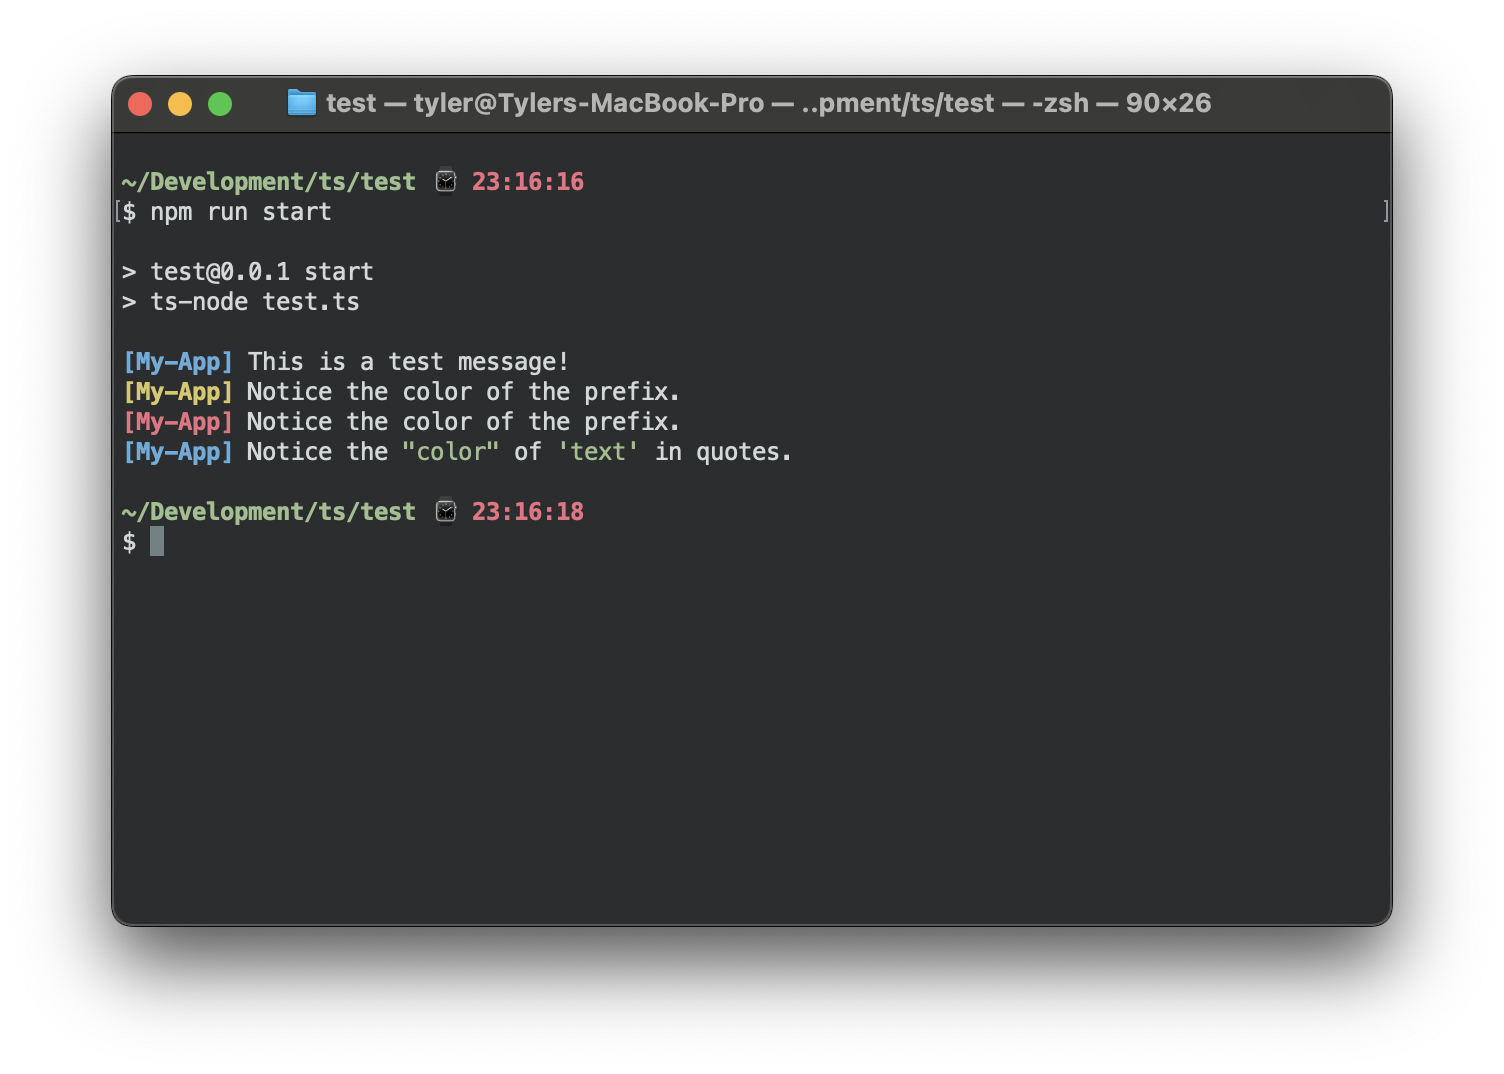
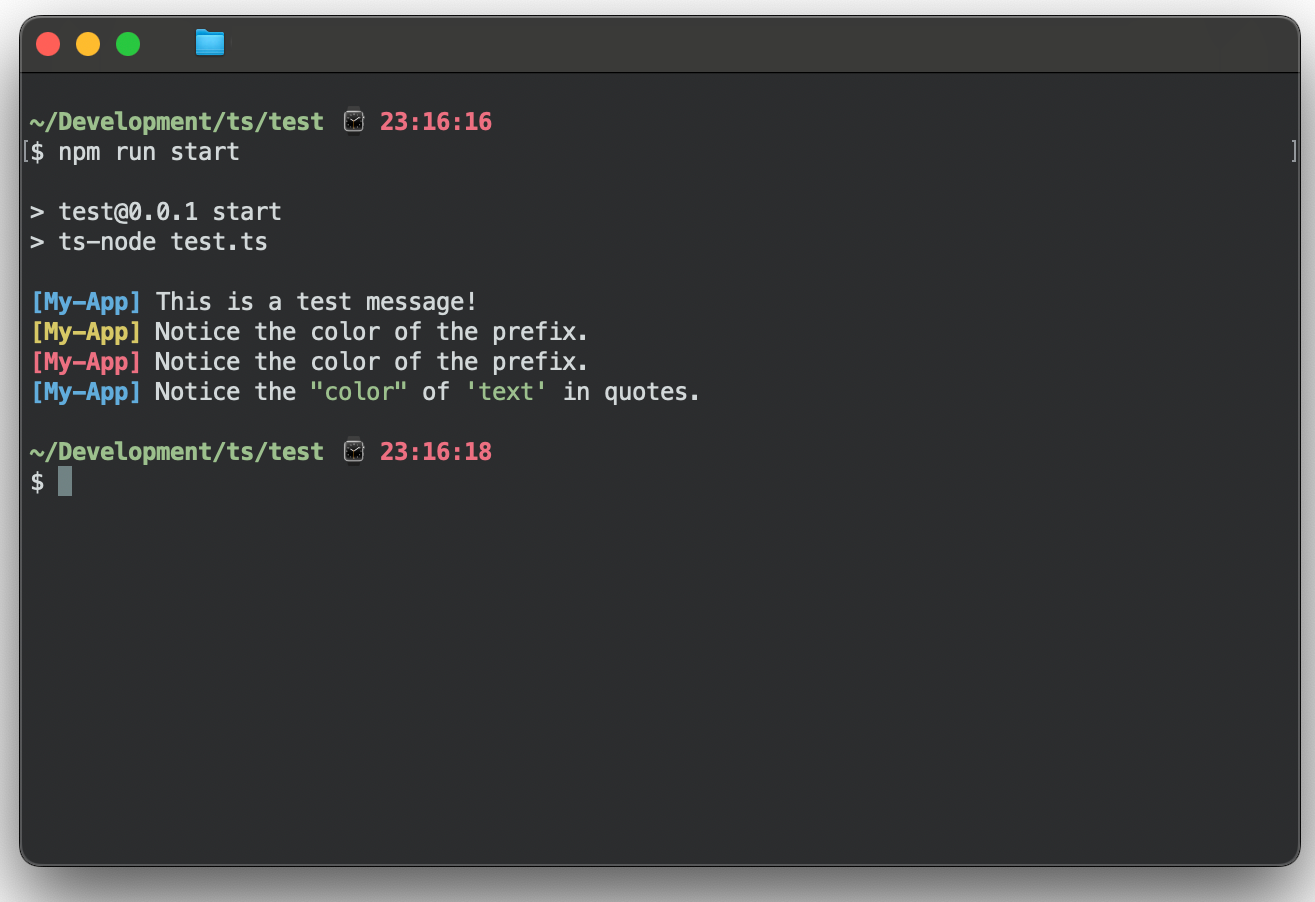
Resized image

diff --git a/README.md b/README.md
@@ -22,7 +22,8 @@ log.error('Notice the color of the prefix.');
 log.info('Notice the "color" of 'text' in quotes.);
 ```
 
-<img src="https://github.com/TylerDurham/logger/blob/main/Screenshot-1.png?raw=true"/>
+ Run your program, and the output should look like the following:
+![Screenshot-1.png](https://github.com/TylerDurham/logger/blob/main/Screenshot-1.png?raw=true)
 
 ## F.A.Q.
 
